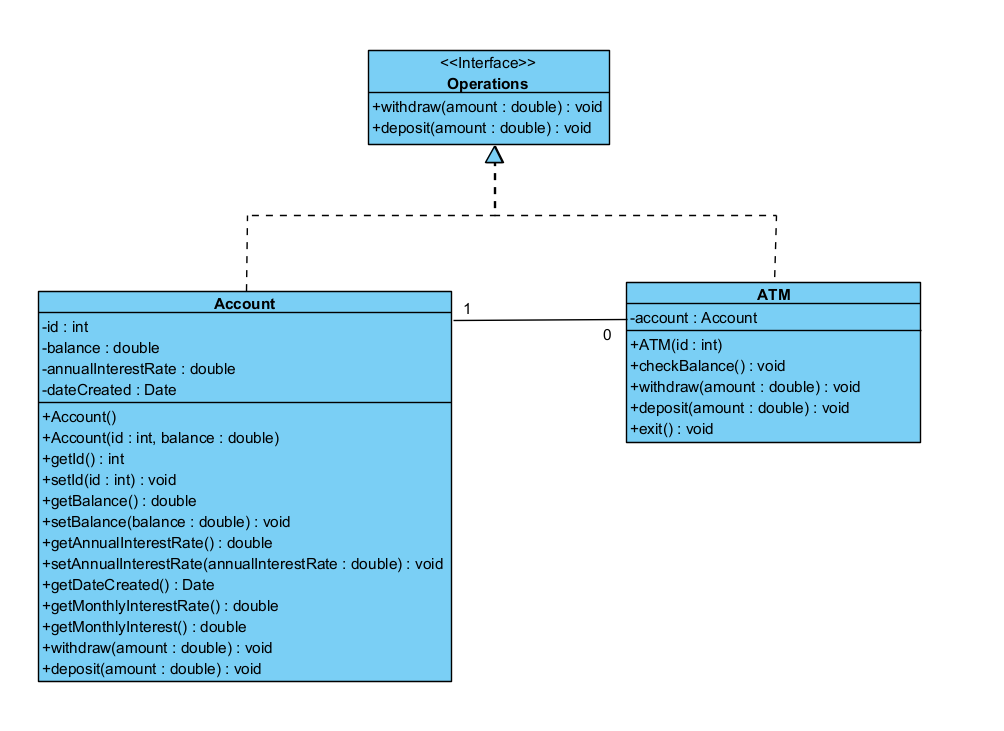
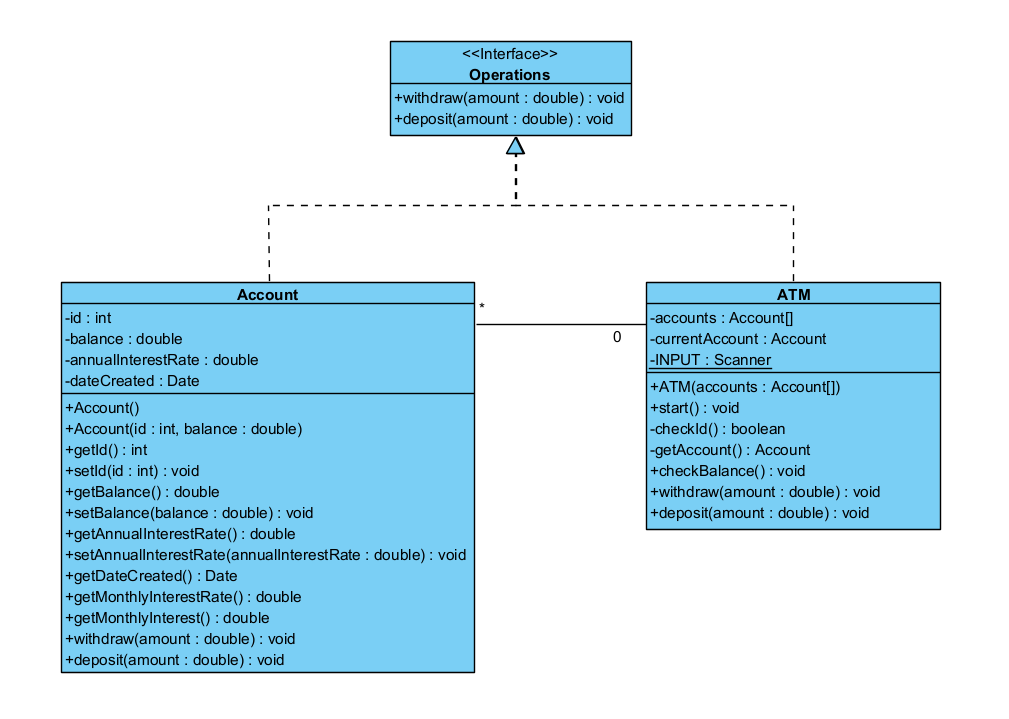
introduction-to-java-programming-exercises

Changed region(s): [[0.0309, 0.3672, 0.9572, 0.9485], [0.3396, 0.0306, 0.6484, 0.2448], [0.247, 0.2754, 0.7719, 0.306]]

diff --git a/src/ch10/introduction/StringClass.java b/src/ch10/introduction/StringClass.java
@@ -1,0 +1,93 @@
+package ch10.introduction;
+
+public class StringClass {
+
+	/*
+	 * A String object is immutable: Its content cannot be changed once the string
+	 * is created.
+	 */
+
+	public static void main(String[] args) {
+
+		// (1) Constructing a String
+
+		System.out.println("(1) Constructing a String ");
+		// 1.1
+		String newString = new String("Welcome to Java");
+		System.out.println(newString);
+		// 1.2
+		String message = "Welcome to Java";
+		System.out.println(message);
+		// 1.3
+		char[] charArray = { 'G', 'o', 'o', 'd', ' ', 'D', 'a', 'y' };
+		String newMessage = new String(charArray);
+		System.out.println(newMessage);
+
+		System.out.println();
+		// (2) Immutable Strings and Interned Strings
+		// Strings are immutable; once created, their contents cannot be changed.
+		System.out.println("(2) Immutable Strings and Interned Strings");
+		String s = "Java"; // String s = new String("Java");
+		// reference points new String object
+		s = "HTML"; // s = new String("HTML");
+		System.out.println(s);
+		System.out.println();
+		/*
+		 * Because strings are immutable and are ubiquitous in programming, the JVM uses
+		 * a unique instance for string literals with the same character sequence in
+		 * order to improve efficiency and save memory. Such an instance is called an
+		 * interned string. For example, the following statements
+		 */
+		System.out.println("Interned Strings");
+		String s1 = "Welcome to Java";
+		String s2 = new String("Welcome to Java");
+		String s3 = "Welcome to Java";
+
+		System.out.println("s1 == s2 is " + (s1 == s2)); // false
+		System.out.println("s1 == s3 is " + (s1 == s3)); // true
+
+		System.out.println();
+		// (3) Replacing and Splitting Strings
+		System.out.println("(3) Replacing and Splitting Strings");
+		/*
+		 * Once a string is created, its contents cannot be changed. The methods
+		 * replace, replaceFirst, and replaceAll return a new string derived from the
+		 * original string (without changing the original string!).
+		 */
+
+		System.out.println("Welcome".replace('e', 'A')); // WAlcomA
+		System.out.println("Welcome".replaceFirst("e", "AB")); // WABlcome
+		System.out.println("Welcome".replace("e", "AB")); // WABlcomAB
+		System.out.println("Welcome".replace("el", "AB")); // WABcome
+
+		/*
+		 * The split method can be used to extract tokens from a string with the
+		 * specified delimiters. For example, the following code
+		 */
+		System.out.println("split");
+		String[] tokens = "Java#HTML#Perl".split("#");
+		for (int i = 0; i < tokens.length; i++)
+			System.out.print(tokens[i] + " ");
+		System.out.println();
+
+		System.out.println();
+		// (4) Matching, Replacing and Splitting by Patterns
+		System.out.println("(4) Matching, Replacing and Splitting by Patterns");
+		System.out.println("Java".matches("Java"));
+		System.out.println("Java".equals("Java"));
+		System.out.println("Java is fun".matches("Java.*"));
+		System.out.println("Java is cool".matches("Java.*"));
+		System.out.println("Java is powerful".matches("Java.*"));
+		// \\d represents a single digit, and \\d{3} represents three digits.
+		System.out.println("440-02-4534".matches("\\d{3}-\\d{2}-\\d{4}"));
+		String s4 = "a+b$#c".replaceAll("[$+#]", "NNN");
+		System.out.println(s4); // aNNNbNNNNNNc
+		String[] tokens2 = "Java,C?C#,C++".split("[.,:;?]");
+		for (int i = 0; i < tokens2.length; i++)
+		 System.out.println(tokens2[i]); // Java C C# C++
+		
+		// Conversion between Strings and Arrays
+		System.out.println("Conversion between Strings and Arrays");
+
+	}
+}

diff --git a/src/ch10/exercises/ch10_e07/ATM.java b/src/ch10/exercises/ch10_e07/ATM.java
@@ -1,12 +1,87 @@
 package ch10.exercises.ch10_e07;
 
+import java.util.Scanner;
+
 public class ATM implements Operations {
 
-	public void withdraw(double amount) {
-		
+	// The private instance variable
+	private static final Scanner INPUT = new Scanner(System.in);
+	private Account[] accounts;
+	private Account currentAccount;
+
+	// Constructor
+
+	// Smart constructor
+	// +ATM(accounts: Account[])
+	public ATM(Account[] accounts) {
+		this.accounts = accounts;
 	}
-	
+
+	// +start(): void
+	// this method will start the ATM system
+	public void start() {
+		int choice = 0;
+		while (true) {
+			System.out.print("Enter an id: ");
+			int checkedId = INPUT.nextInt();
+			if (!checkId(checkedId))
+				System.out
+						.println("There is no account registered with this ID number. Please enter a valid ID number");
+			else
+				currentAccount = getAccount(checkedId);
+
+			do {
+				String transactions = "Main menu\n1: check balance\n2: withdraw\n3: deposit\n4: exit";
+				System.out.println("\n" + transactions);
+				System.out.print("Enter a choice: ");
+				choice = INPUT.nextInt();
+				double amount = 0.0;
+
+				if (choice == 1)
+					System.out.println("The balance is " + checkBalance());
+				else if (choice == 2) {
+					System.out.print("Enter an amount to withdraw: ");
+					amount = INPUT.nextDouble();
+					withdraw(amount);
+				} else if (choice == 3) {
+					System.out.print("Enter an amount to deposit: ");
+					amount = INPUT.nextDouble();
+					deposit(amount);
+				} else if (choice == 4) {
+					System.out.println();
+					break;
+				} else
+					System.out.println("Please enter an valid choice");
+			} while (choice != 4);
+		}
+	}
+
+	// -checkId(id: int): boolean
+	// this method checks whether there is an account with specified id, if there
+	// is, then returns true
+	private boolean checkId(int id) {
+		for (int i = 0; i < accounts.length; ++i)
+			if (accounts[i].getId() == id)
+				return true;
+		return false;
+	}
+
+	private Account getAccount(int id) {
+		for (int i = 0; i < accounts.length; ++i)
+			if (accounts[i].getId() == id)
+				currentAccount = accounts[i];
+		return currentAccount;
+	}
+
+	public double checkBalance() {
+		return currentAccount.getBalance();
+	}
+
+	public void withdraw(double amount) {
+		currentAccount.withdraw(amount);
+	}
+
 	public void deposit(double amount) {
-		
+		currentAccount.deposit(amount);
 	}
 }

diff --git a/src/ch10/introduction/BoxingUnboxing.java b/src/ch10/introduction/BoxingUnboxing.java
@@ -1,0 +1,39 @@
+package ch10.introduction;
+
+public class BoxingUnboxing {
+
+	public static void main(String[] args) {
+		Integer intObj = 2; // auto-boxing
+		System.out.println(intObj);
+
+		Integer[] intArray = { 1, 2, 3 }; // {new Integer(1), new Integer(2), new Integer(3)} - auto-boxing
+		System.out.println(intArray[0] + " " + intArray[1] + " " + intArray[2]); // auto-unboxing
+
+		System.out.println();
+		// (10.12)
+		System.out.println("(10.12)");
+		Integer x1 = 3 + new Integer(5);
+		System.out.println(x1);
+
+		Integer x2 = 3;
+		System.out.println(x2);
+
+		// Double x3 = 3; false
+
+		Double x4 = 3.0;
+		System.out.println(x4);
+
+		int x5 = new Integer(3);
+		System.out.println(x5);
+
+		int x6 = new Integer(3) + new Integer(4);
+		System.out.println(x6);
+
+		System.out.println();
+		// (10.13)
+		System.out.println("(10.13)");
+		Double x7 = 3.5;
+		System.out.println(x7.intValue()); // 3
+		System.out.println(x7.compareTo(4.5)); // -1
+	}
+}

diff --git a/src/ch10/exercises/ch10_e07/TestATM.java b/src/ch10/exercises/ch10_e07/TestATM.java
@@ -1,0 +1,21 @@
+package ch10.exercises.ch10_e07;
+
+public class TestATM {
+
+	public static void main(String[] args) {
+		Account[] accounts = {
+				new Account(0, 100.0),
+				new Account(1, 100.0),
+				new Account(2, 100.0),
+				new Account(3, 100.0),
+				new Account(4, 100.0),
+				new Account(5, 100.0),
+				new Account(6, 100.0),
+				new Account(7, 100.0),
+				new Account(8, 100.0),
+				new Account(9, 100.0)
+		};
+		ATM atm = new ATM(accounts);
+		atm.start();
+	}
+}

diff --git a/src/ch10/exercises/ch10_e07/Account.java b/src/ch10/exercises/ch10_e07/Account.java
@@ -89,7 +89,7 @@ public class Account implements Operations {
 			System.out.println("you don't have enough money in your account");
 		} else {
 			balance -= amount;
-			System.out.println("you withdrew $" + amount + "from your account");
+			System.out.println("you withdrew $" + amount + " from your account");
 		}
 	}
 

diff --git a/src/ch10/introduction/BigIntegerBigDecimal.java b/src/ch10/introduction/BigIntegerBigDecimal.java
@@ -1,0 +1,14 @@
+package ch10.introduction;
+
+public class BigIntegerBigDecimal {
+
+	/*
+	 * The BigInteger and BigDecimal classes can be used to represent integers or
+	 * decimal numbers of any size and precision.
+	 */
+
+	public static void main(String[] args) {
+		
+		
+	}
+}

diff --git a/src/ch10/introduction/StringBuilderStringBuffer.java b/src/ch10/introduction/StringBuilderStringBuffer.java
@@ -1,0 +1,12 @@
+package ch10.introduction;
+
+public class StringBuilderStringBuffer {
+
+	/*
+	 * The StringBuilder and StringBuffer classes are similar to the String class
+	 * except that the String class is immutable.
+	 */
+	public static void main(String[] args) {
+
+	}
+}
